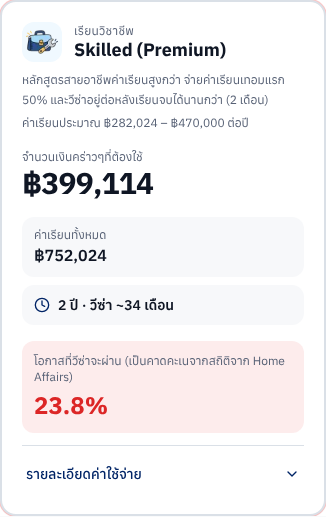
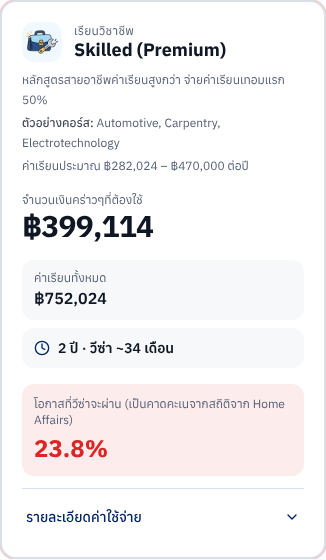
Budget Planner: example course types on each VET card
Claude-Session: https://claude.ai/code/session_0123kHapHsYXJHe5R4TsJDte

diff --git a/src/components/study/BudgetStudyPlanner.tsx b/src/components/study/BudgetStudyPlanner.tsx
@@ -867,6 +867,15 @@ const VET_TIER_NOTES: Record<string, string> = {
   "vet-prem": "หลักสูตรสายอาชีพค่าเรียนสูงกว่า จ่ายค่าเรียนเทอมแรก 50%",
 };
 
+// Example course types per VET tier (owner request 2026-11-21). Typical
+// Australian course groups at each fee band, kept in English as students
+// search for them. Owner to confirm against the courses Beyond Study offers.
+const VET_TIER_EXAMPLES: Record<string, string> = {
+  "vet-budget": "Business, Leadership & Management, Marketing",
+  "vet-std": "Early Childhood Education (Childcare), Hospitality Management, Commercial Cookery",
+  "vet-prem": "Automotive, Carpentry, Electrotechnology",
+};
+
 const PathwayCard = ({
   tier, calc, fmtMoney, elicosWeekly, degreeLevel,
 }: {
@@ -910,6 +919,11 @@ const PathwayCard = ({
           {!isDegree && VET_TIER_NOTES[tier.id] && (
             <div className="-mt-2 mb-4 text-xs leading-relaxed text-muted-foreground">
               <p>{VET_TIER_NOTES[tier.id]}</p>
+              {VET_TIER_EXAMPLES[tier.id] && (
+                <p className="mt-1">
+                  <span className="font-medium text-foreground/80">ตัวอย่างคอร์ส:</span> {VET_TIER_EXAMPLES[tier.id]}
+                </p>
+              )}
               <p className="mt-1 tabular-nums">
                 ค่าเรียนประมาณ <MoneyRange low={tier.annualLow} high={tier.annualHigh} fmtMoney={fmtMoney} /> ต่อปี
               </p>

diff --git a/docs/qa/thai-review-budget-planner.md b/docs/qa/thai-review-budget-planner.md
@@ -192,3 +192,4 @@ Below 1024 px the planner asks one input group per screen, then shows the result
 | BSP-140b | `VET_TIER_NOTES["vet-std"]` | Under Skilled (Standard) | Skills-focused vocational course, mid-range fees, 25% of the first year's fee upfront. | หลักสูตรสายอาชีพที่เน้นทักษะสำหรับทำงาน ค่าเรียนระดับกลาง จ่ายค่าเรียนเทอมแรก 25% | — | Owner may want course examples. |
 | BSP-140c | `VET_TIER_NOTES["vet-prem"]` | Under Skilled (Premium) | Higher-fee vocational course, 50% of the first year's fee upfront. | หลักสูตรสายอาชีพค่าเรียนสูงกว่า จ่ายค่าเรียนเทอมแรก 50% | — | Owner to say what the higher fee buys. |
 | BSP-140d | PathwayCard (VET) | Second line under each VET title | About {low} – {high} a year | ค่าเรียนประมาณ {low} – {high} ต่อปี | — | Follows THB/AUD toggle. |
+| BSP-140e | `VET_TIER_EXAMPLES` + label | Third line under each VET title | Example courses: … | ตัวอย่างคอร์ส: (course names in English) | — | Added 2026-11-21 at owner request. Course groups are typical examples for each fee band. **Owner to confirm** they match what Beyond Study offers. |

diff --git a/docs/qa/changes.md b/docs/qa/changes.md
@@ -287,3 +287,4 @@ Owner wording applied verbatim (1, 6); removals at owner request (4, 5, 7).
 7. Study Pathway Finder: "ติดต่อปรึกษาเราได้เลย" now opens LINE (`line.me/ti/p/@beyondstudy`). When LIFF is configured, the site-wide interceptor turns it into the LIFF lead form with the visitor's answers. The duplicate "ยังไม่แน่ใจว่าจะเริ่มจากตรงไหน?" card under it was removed.
 
 Tests: e2e desktop + mobile, public + line-leads: 92 passed before the new assertions. The Finder (LINE href, card gone) and Explorer (no adviser block) tests were then re-run, 4/4 passed. Unit tests 102 passed. Screenshots: `screenshots/owner-batch-2026-11-21/`.
+- 2026-11-21 follow-up (owner request): each VET card also shows "ตัวอย่างคอร์ส:". Budget: Business, Leadership & Management, Marketing. Standard: Early Childhood Education (Childcare), Hospitality Management, Commercial Cookery. Premium: Automotive, Carpentry, Electrotechnology. These are typical examples for each fee band, pending owner confirmation (BSP-140e).
